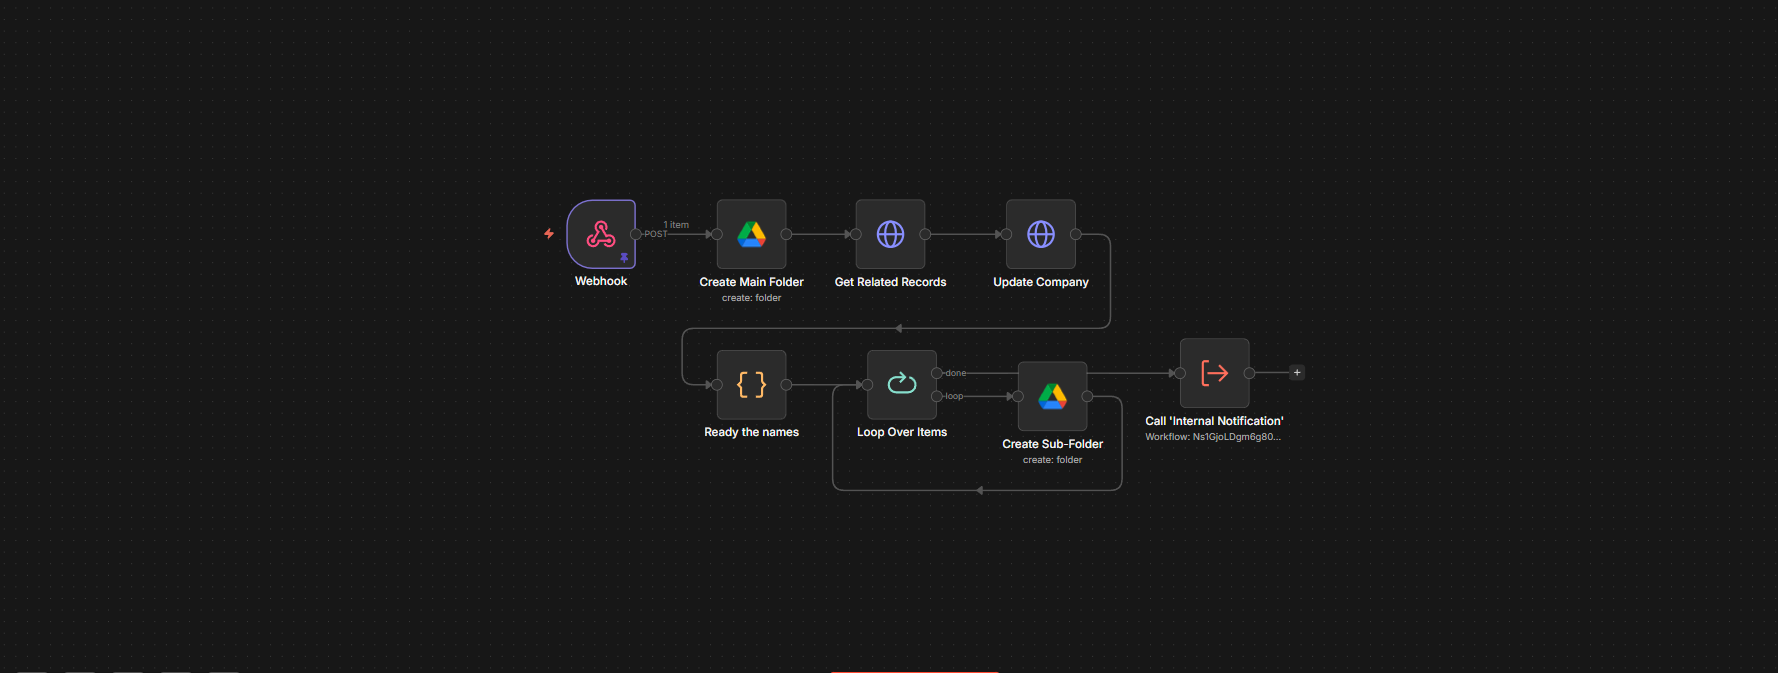
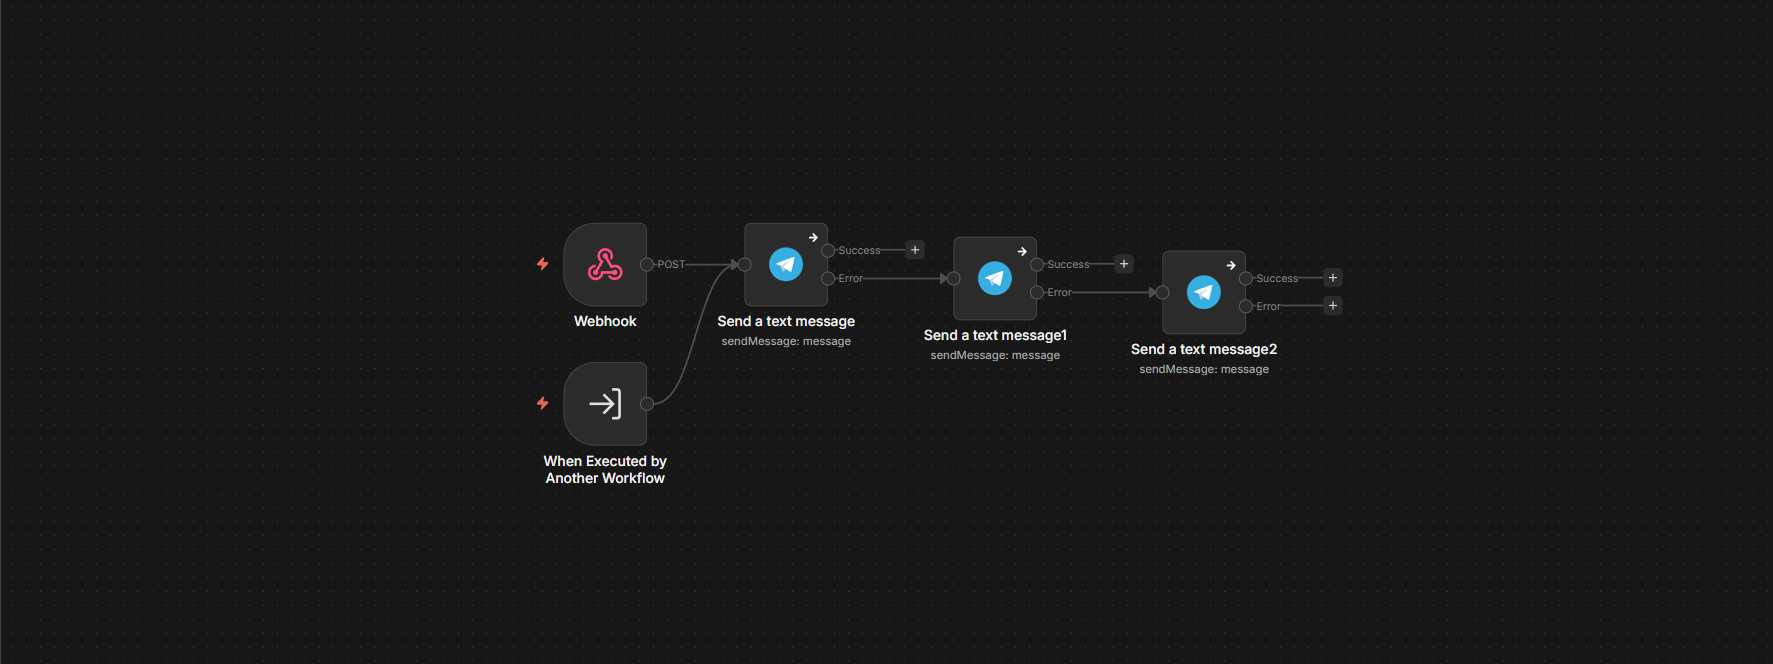
Fix automation project discovery call booked

diff --git a/src/content/portfolio.ts b/src/content/portfolio.ts
@@ -18,9 +18,7 @@ import imgGhlDiscoveryWorkflow from '@/assets/projects/automation/project-10.1.p
 import imgGhlDiscoveryBookingForm from '@/assets/projects/automation/project-10.2.png'
 import imgGhlDiscoveryCalendar from '@/assets/projects/automation/project-10.3.png'
 import imgGhlDiscoveryEmail from '@/assets/projects/automation/project-10.4.png'
-import imgGhlDiscoveryClientFolderWorkflow from '@/assets/projects/automation/project-10.5.png'
-import imgGhlDiscoveryTelegramWorkflow from '@/assets/projects/automation/project-10.6.png'
-import imgGhlDiscoveryDriveOutput from '@/assets/projects/automation/project-10.7.png'
+import imgGhlDiscoveryTelegram from '@/assets/projects/automation/project-10.5.png'
 import imgGhlDiscoveryCompletedWorkflow from '@/assets/projects/automation/project-11.1.png'
 import imgGhlDiscoveryCompletedPipeline from '@/assets/projects/automation/project-11.2.png'
 import imgGhlDiscoveryCompletedTelegramWorkflow from '@/assets/projects/automation/project-11.3.png'
@@ -1028,18 +1026,16 @@ export const portfolio = {
       title: 'GHL Discovery Call Booked',
       categories: ['automation', 'crm'],
       description:
-        'A GoHighLevel CRM workflow for booked discovery calls. When a lead books through the calendar and submits the booking form, the automation checks whether an existing opportunity already exists from the public request form. If found, it updates the opportunity to the Discovery Call Booked stage; if not, it creates a new direct-booking opportunity and tags the contact accordingly. The workflow then updates the contact and company status, sends a confirmation email, creates a preparation task for the firm owner, and calls an n8n workflow to create the client Google Drive folder structure, update the company Drive link, create accounting subfolders, and notify the owner through Telegram.',
-      tags: ['GoHighLevel', 'CRM', 'Calendar', 'Forms', 'Pipeline', 'Email', 'n8n', 'Google Drive', 'Telegram'],
+        'A GoHighLevel CRM workflow for booked discovery calls. When a lead books a discovery call and submits the calendar form, the automation creates or updates the opportunity in the Discovery Call Booked stage, updates the contact and company status, and applies the correct contact tag. It then sends a confirmation email, creates a preparation task for the firm owner, and calls a webhook to notify the team that a discovery call was booked.',
+      tags: ['GoHighLevel', 'CRM', 'Calendar', 'Forms', 'Pipeline', 'Email', 'Tasks', 'Webhook', 'Telegram'],
       image: imgGhlDiscoveryWorkflow,
       galleryImages: [
         imgGhlDiscoveryBookingForm,
         imgGhlDiscoveryCalendar,
         imgGhlDiscoveryEmail,
-        imgGhlDiscoveryClientFolderWorkflow,
-        imgGhlDiscoveryTelegramWorkflow,
-        imgGhlDiscoveryDriveOutput,
+        imgGhlDiscoveryTelegram
       ],
-      databases: ['GoHighLevel', 'Google Drive'],
+      databases: ['GoHighLevel'],
       link: null,
     },
     {